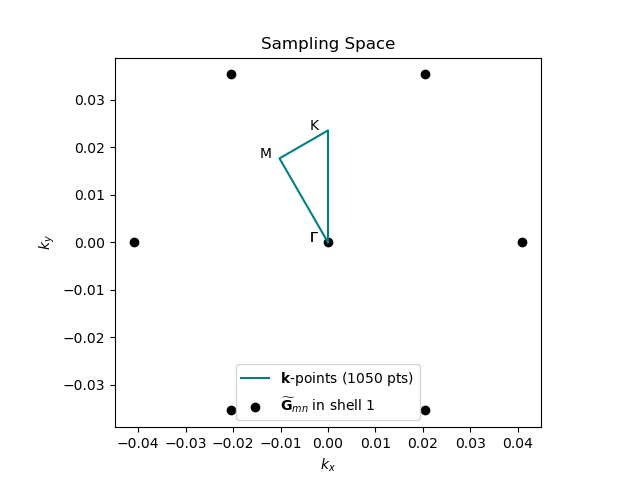
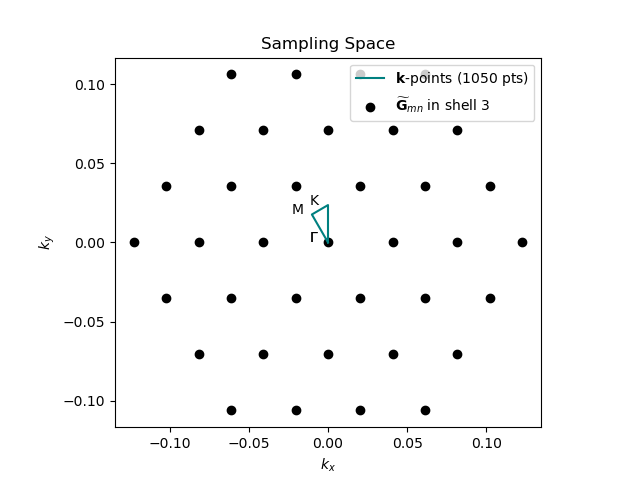
added intralayer plotting

diff --git a/ALLEGRO_ANALYZER/__class_BZSampler.py b/ALLEGRO_ANALYZER/__class_BZSampler.py
@@ -9,6 +9,7 @@ from math import pi, floor
 from itertools import product as prod
 from time import time
 import matplotlib.pyplot as plt
+import matplotlib.colors as mcolors
 from ____exit_with_error import exit_with_error
 from ___constants_names import DIR_SHORTCUTS
 from ___constants_sampling import *
@@ -16,6 +17,7 @@ from ___constants_phonopy import SUPER_DIM
 from ___helpers_parsing import greet, succ, warn, err, is_flag, check_not_flag
 from __class_CarCollector import CarCollector
 from __directory_searchers import checkPath
+import random
 
 class BZSampler:
     def __init__(self, A0, G0, theta=None, outdir='./', log=False, lattice_type='hexagonal', super_dim=SUPER_DIM[:2]):
@@ -39,7 +41,7 @@ class BZSampler:
         self.g_idxs = None; self.GM_set = None; self.G0_set = None
         self.k_set = None; self.kmags = None; self.corners = None
         self.ltype = lattice_type
-        self.GM_sampled = False; self.k_sampled = False
+        self.GM_sampled = False; self.k_sampled = False; self.nsh = None
         if lattice_type != 'hexagonal':
             exit_with_error("Error: k-points sampler does not (yet) support non-hexagonal lattices")
 
@@ -52,6 +54,7 @@ class BZSampler:
         GM_set = np.array([m*GM1 + n*GM2 for m, n in prod(grid, grid)])
         G0_set = np.array([m*G01 + n*G02 for m, n in prod(grid, grid)])
         g_idxs = np.array(list(prod(grid, grid)))
+        self.nsh = max_shell; self.tol = tol
 
         # Filter out any G that does not satisfy the closeness condition |GM| < (shell+0.1) * |GM1|
         g_cutoff = (floor(max_shell) + tol) * LA.norm(GM1) # add 0.1 for numerical error
@@ -128,9 +131,22 @@ class BZSampler:
         labels = (r'$\Gamma$', r'K', r'M', r'$\Gamma$')
         plt.clf()
         _, ax = plt.subplots()
-        plt.scatter(self.GM_set[:,0], self.GM_set[:,1], 
-                    c='black', 
-                    label=r'$\widetilde{\mathbf{G}}_{mn}$ in shell %d'%self.nsh)
+        cols = list(mcolors.TABLEAU_COLORS.keys()); ncol = len(cols)
+        random.shuffle(cols)
+        GM1 = self.GM_set[:,0]; GM2 = self.GM_set[:,1]
+        last_cut = 0
+        for i in range(1, self.nsh+1):
+            g_cutoff = (i + self.tol) * LA.norm(self.GM[:,0])
+            cut_makers = np.logical_and(np.sqrt(GM1**2 + GM2**2) >= last_cut, np.sqrt(GM1**2 + GM2**2) <= g_cutoff)
+            last_cut = g_cutoff
+            plt.scatter(GM1[cut_makers], GM2[cut_makers], 
+                        c=cols[i%ncol], 
+                        label=r'$\widetilde{\mathbf{G}}_{mn}$ in shell %d'%i)
+        for idx, GM in zip(self.g_idxs, self.GM_set):
+            plt.annotate(str(tuple(idx)), GM, # this is the point to label
+                 textcoords="offset points", # how to position the text
+                 xytext=(-10,-10), # distance from text to points (x,y)
+                 ha='center') # horizontal alignment can be left, right or center
         plt.plot(self.k_set[:,0], self.k_set[:,1], 
                  c='teal', 
                  label=r'$\mathbf{k}$-points (%d pts)'%len(self.k_set))
@@ -140,7 +156,8 @@ class BZSampler:
                  textcoords="offset points", # how to position the text
                  xytext=(-10,0), # distance from text to points (x,y)
                  ha='center') # horizontal alignment can be left, right or center
-        plt.legend(); plt.title("Sampling Space")
+        # plt.legend()
+        plt.title("Sampling Space")
         ax.set_xlabel(r'$k_x$'); ax.set_ylabel(r'$k_y$')
         outname = self.outdir + filename
         plt.savefig(outname); succ("Successfully wrote sampling plot out to " + outname)

diff --git a/ALLEGRO_ANALYZER/__class_DM.py b/ALLEGRO_ANALYZER/__class_DM.py
@@ -102,6 +102,53 @@ class MonolayerDM:
             self.__block_intra_l1()
         print(f"Retrieved monolayer dynamical matrix of shape {self.DM_set[0].shape} for solid {self.name}")
         return self.DM_set
+    
+    # Diagonalize the set of DMs to get phonon modes
+    def build_modes(self, k_mags, dump=False, outdir=None):
+        self.k_mags = k_mags
+        if self.DM_set is None:
+            self.__block_intra_l1()
+        self.mode_set = [0]*len(self.k_mags)
+        for i, (k_mag, DM) in enumerate(zip(self.k_mags, self.DM_set)):
+            evals = LA.eigvals(DM)
+            signs = (-1)*(evals < 0) + (evals > 0) # pull negative sign out of square root to plot imaginary frequencies
+            modes_k = signs * np.sqrt(np.abs(evals)) * (15.633302*33.356) # eV/Angs^2 -> THz ~ 15.633302; THz -> cm^-1 ~ 33.356
+            self.mode_set[i] = (k_mag, modes_k[modes_k != 0])
+        if dump:
+            outdir = checkPath(os.path.abspath(outdir))
+            assert os.path.isdir(outdir), f"Directory {outdir} does not exist"
+            k_dump = []; mode_dump = []
+            for k_mag, modes in self.mode_set:
+                    k_dump += [k_mag]*len(modes)
+                    mode_dump += list(modes)
+            with open(outdir + 'intra_modes.txt', 'w') as f:
+                for k_mag, mode in zip(k_dump, mode_dump):
+                    f.write(f"{k_mag}\t{mode}\n")
+        self.modes_built = True
+        return self.mode_set
+    
+    def plot_band(self, k_mags, corner_kmags, outdir='./', 
+                  filename='intra_'+DEFAULT_PH_BAND_PLOT_NAME, name=None, cutoff=None):
+        outdir = checkPath(outdir); assert os.path.isdir(outdir), f"Invalid directory {outdir}"
+        if not self.modes_built:
+            print("Intralayer modes not built yet, building...")
+            self.build_modes(k_mags, dump=False, outdir=outdir)
+            print("Intralayer modes built.")
+        plt.clf()
+        for k_mag, modes in self.mode_set:
+            if cutoff is not None:
+                modes = modes[modes <= cutoff]
+            plt.scatter([k_mag] * len(modes), modes, c='royalblue', s=0.07)
+        xlabs = (r'$\Gamma$', r'K', r'M')
+        plt.xticks(corner_kmags, xlabs)
+        plt.ylabel(r'$\omega\,(\mathrm{cm}^{-1})$')
+        title = "First-layer phonon modes"
+        if name is not None:
+            title += f" of {name}"
+        plt.title(title)
+        plt.savefig(outdir + filename)
+        print(f"Plot written to {outdir+filename}")
+        return
 
     def get_GM_set(self):
         print(f"Retrieved GM sample set for solid {self.name}")

diff --git a/ALLEGRO_ANALYZER/twist_ph.py b/ALLEGRO_ANALYZER/twist_ph.py
@@ -29,6 +29,7 @@ if __name__ == '__main__':
     USAGE_MSG = f"Usage: python3 {sys.argv[0]} -deg <twist angle (deg)> -name <solid name> -cut <frequency cutoff> -dir <base I/O dir> -o <output dir>"
     args = sys.argv[1:]; i = 0; n = len(args)
     indir = '.'; outdir = '.'; theta = None; name = None; outname = DEFAULT_PH_BAND_PLOT_NAME; cutoff = None
+    plot_intra = False
     while i < n:
         if not is_flag(args[i]):
             warn(f'Warning: token "{args[i]}" is out of place and will be ignored')
@@ -45,6 +46,8 @@ if __name__ == '__main__':
             i += 1; check_not_flag(args[i]); cutoff = float(args[i]); i += 1
         elif args[i] == '-fout':
             i += 1; check_not_flag(args[i]); outname = args[i]; i += 1
+        elif args[i] == '--intra':
+            i += 1; plot_intra = True
         elif args[i] in ['--usage', '--help']:
             print(USAGE_MSG)
             sys.exit(0)
@@ -105,6 +108,9 @@ if __name__ == '__main__':
     update("Constructing intralayer dynamical matrix objects...")
     MLDMs = [MonolayerDM(uc, sc, ph, GM_set, k_set) for uc, sc, ph in zip(poscars_uc, poscars_sc, ml_ph_list)]
     assert len(MLDMs) == 2, f"Only 2-layer solids supported for twisted DM (for now), got {len(MLDMs)}"
+    if plot_intra:
+        print("Plotting one intralayer component...")
+        MLDMs[0].plot_band(k_mags, corner_kmags, name=name, outdir=outdir, filename=outname, cutoff=cutoff)
     print("Intralayer DM objects constructed.")
 
     greet("Working on interlayer components...")
